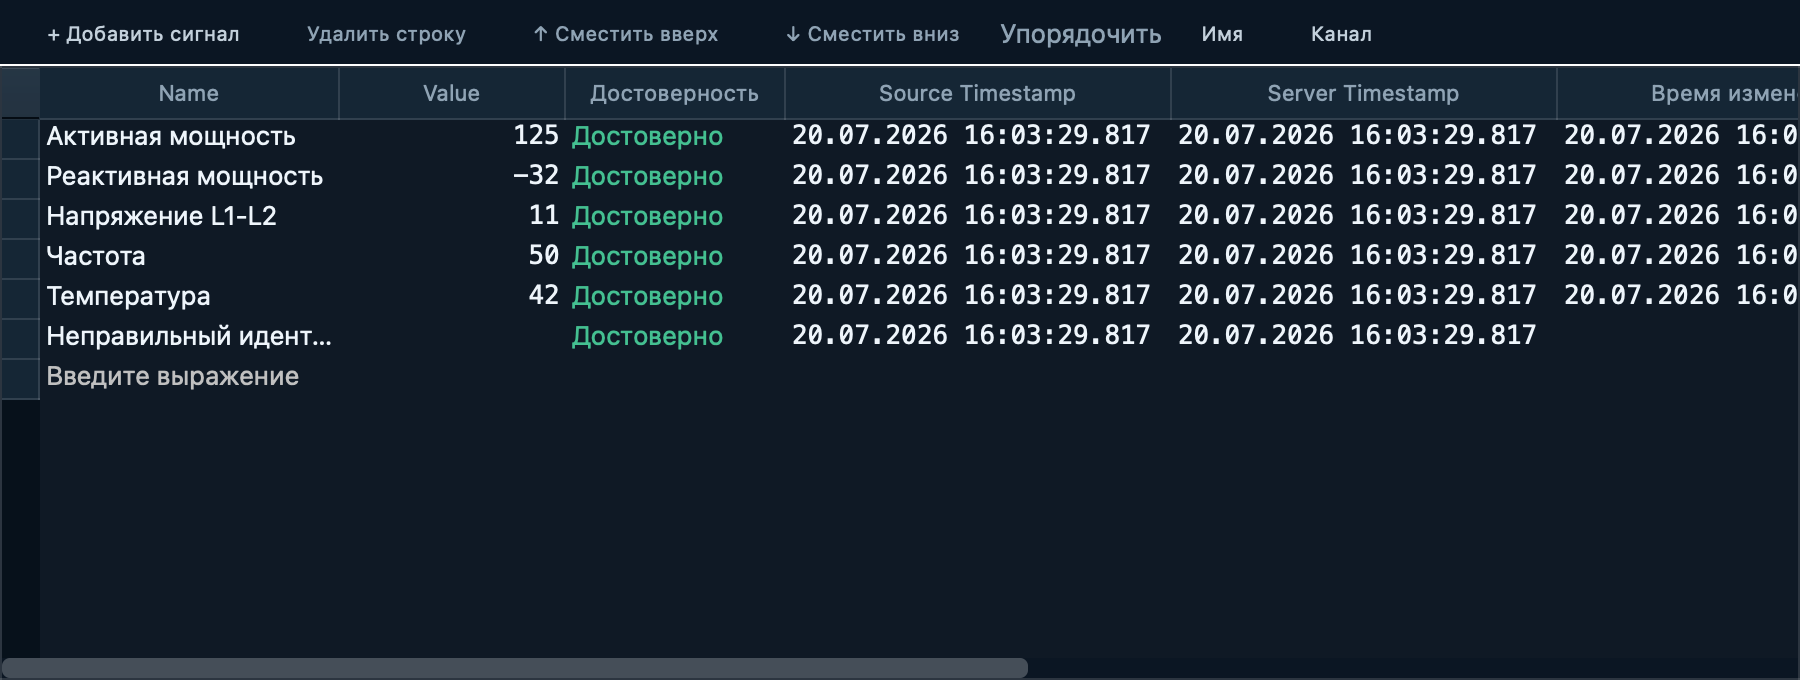
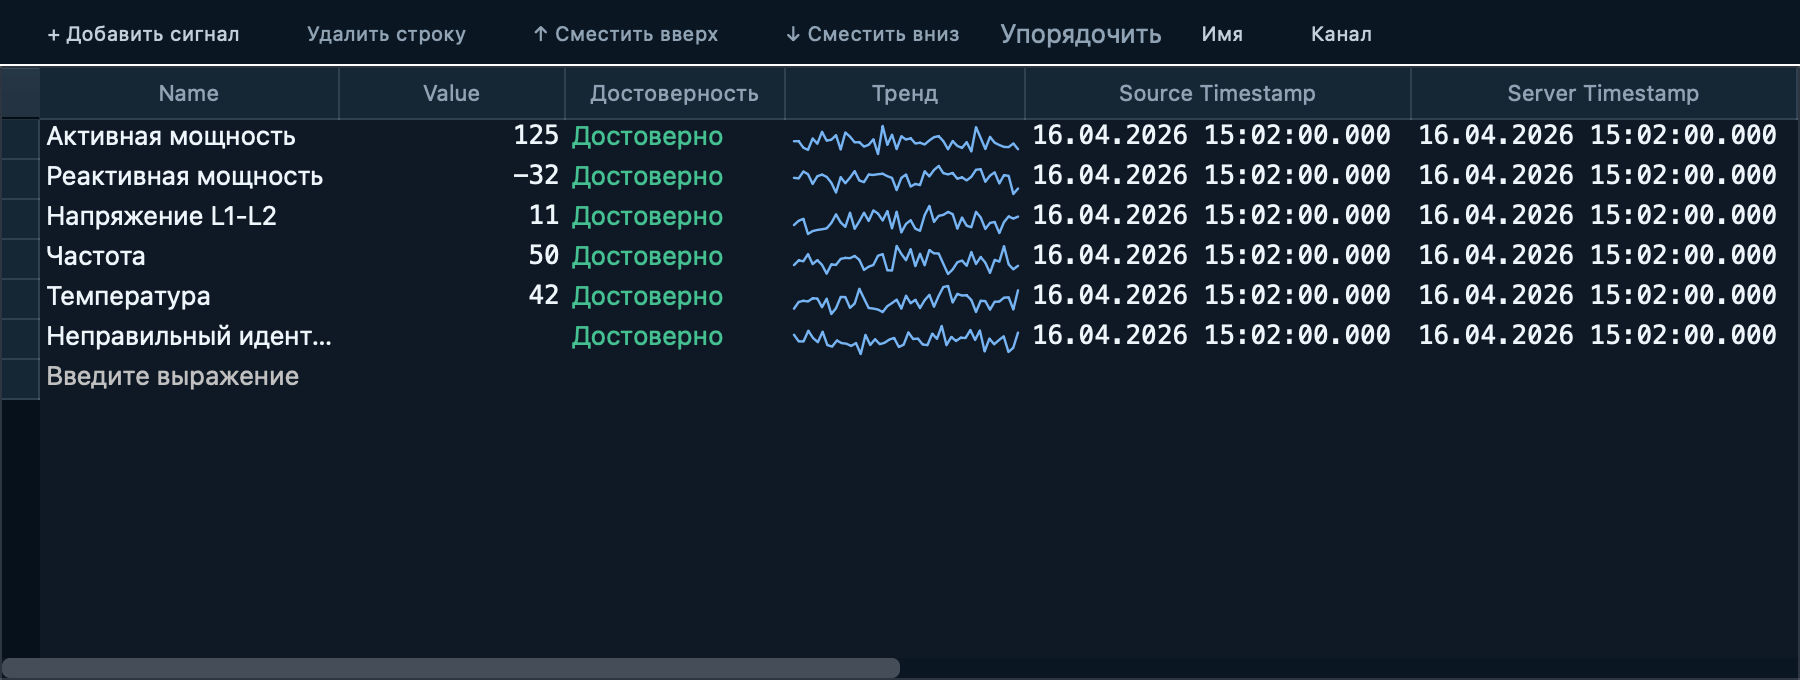
client: document the Table's Trend (sparkline) column
The experimental-workbench page (RU + EN) now describes the Trend
column - a per-row mini-graph of the value over the last hour - and the
embedded table-workspace.png is regenerated showing live sparklines with
the generator's newly deterministic (fixture-frozen) timestamps.

diff --git a/client/workbench.md b/client/workbench.md
@@ -69,8 +69,9 @@ permalink: /client/workbench/
 
 Кроме того, значения и метки времени во всех таблицах отображаются
 моноширинным шрифтом — цифры выровнены по разрядам и не «прыгают» при
-обновлении значений, — а рядом со значением появляется столбец «Достоверность»
-с текстовым признаком качества.
+обновлении значений, — а рядом со значением появляются столбец «Достоверность»
+с текстовым признаком качества и столбец «Тренд» — мини-график изменения
+значения за последний час, обновляющийся вместе со значением.
 
 ## [](#inspector)Инспектор
 

diff --git a/en/client/workbench.md b/en/client/workbench.md
@@ -68,8 +68,9 @@ current session and the window is active.</dd>
 </dl>
 
 In addition, values and timestamps in all tables render in a monospace font —
-digits stay aligned and do not shift as values update — and a "Quality"
-column with a textual quality flag appears next to the value.
+digits stay aligned and do not shift as values update — and two columns appear
+next to the value: "Quality" with a textual quality flag, and "Trend" with a
+mini-graph of the value over the last hour, updating live.
 
 ## [](#inspector)Inspector
 
